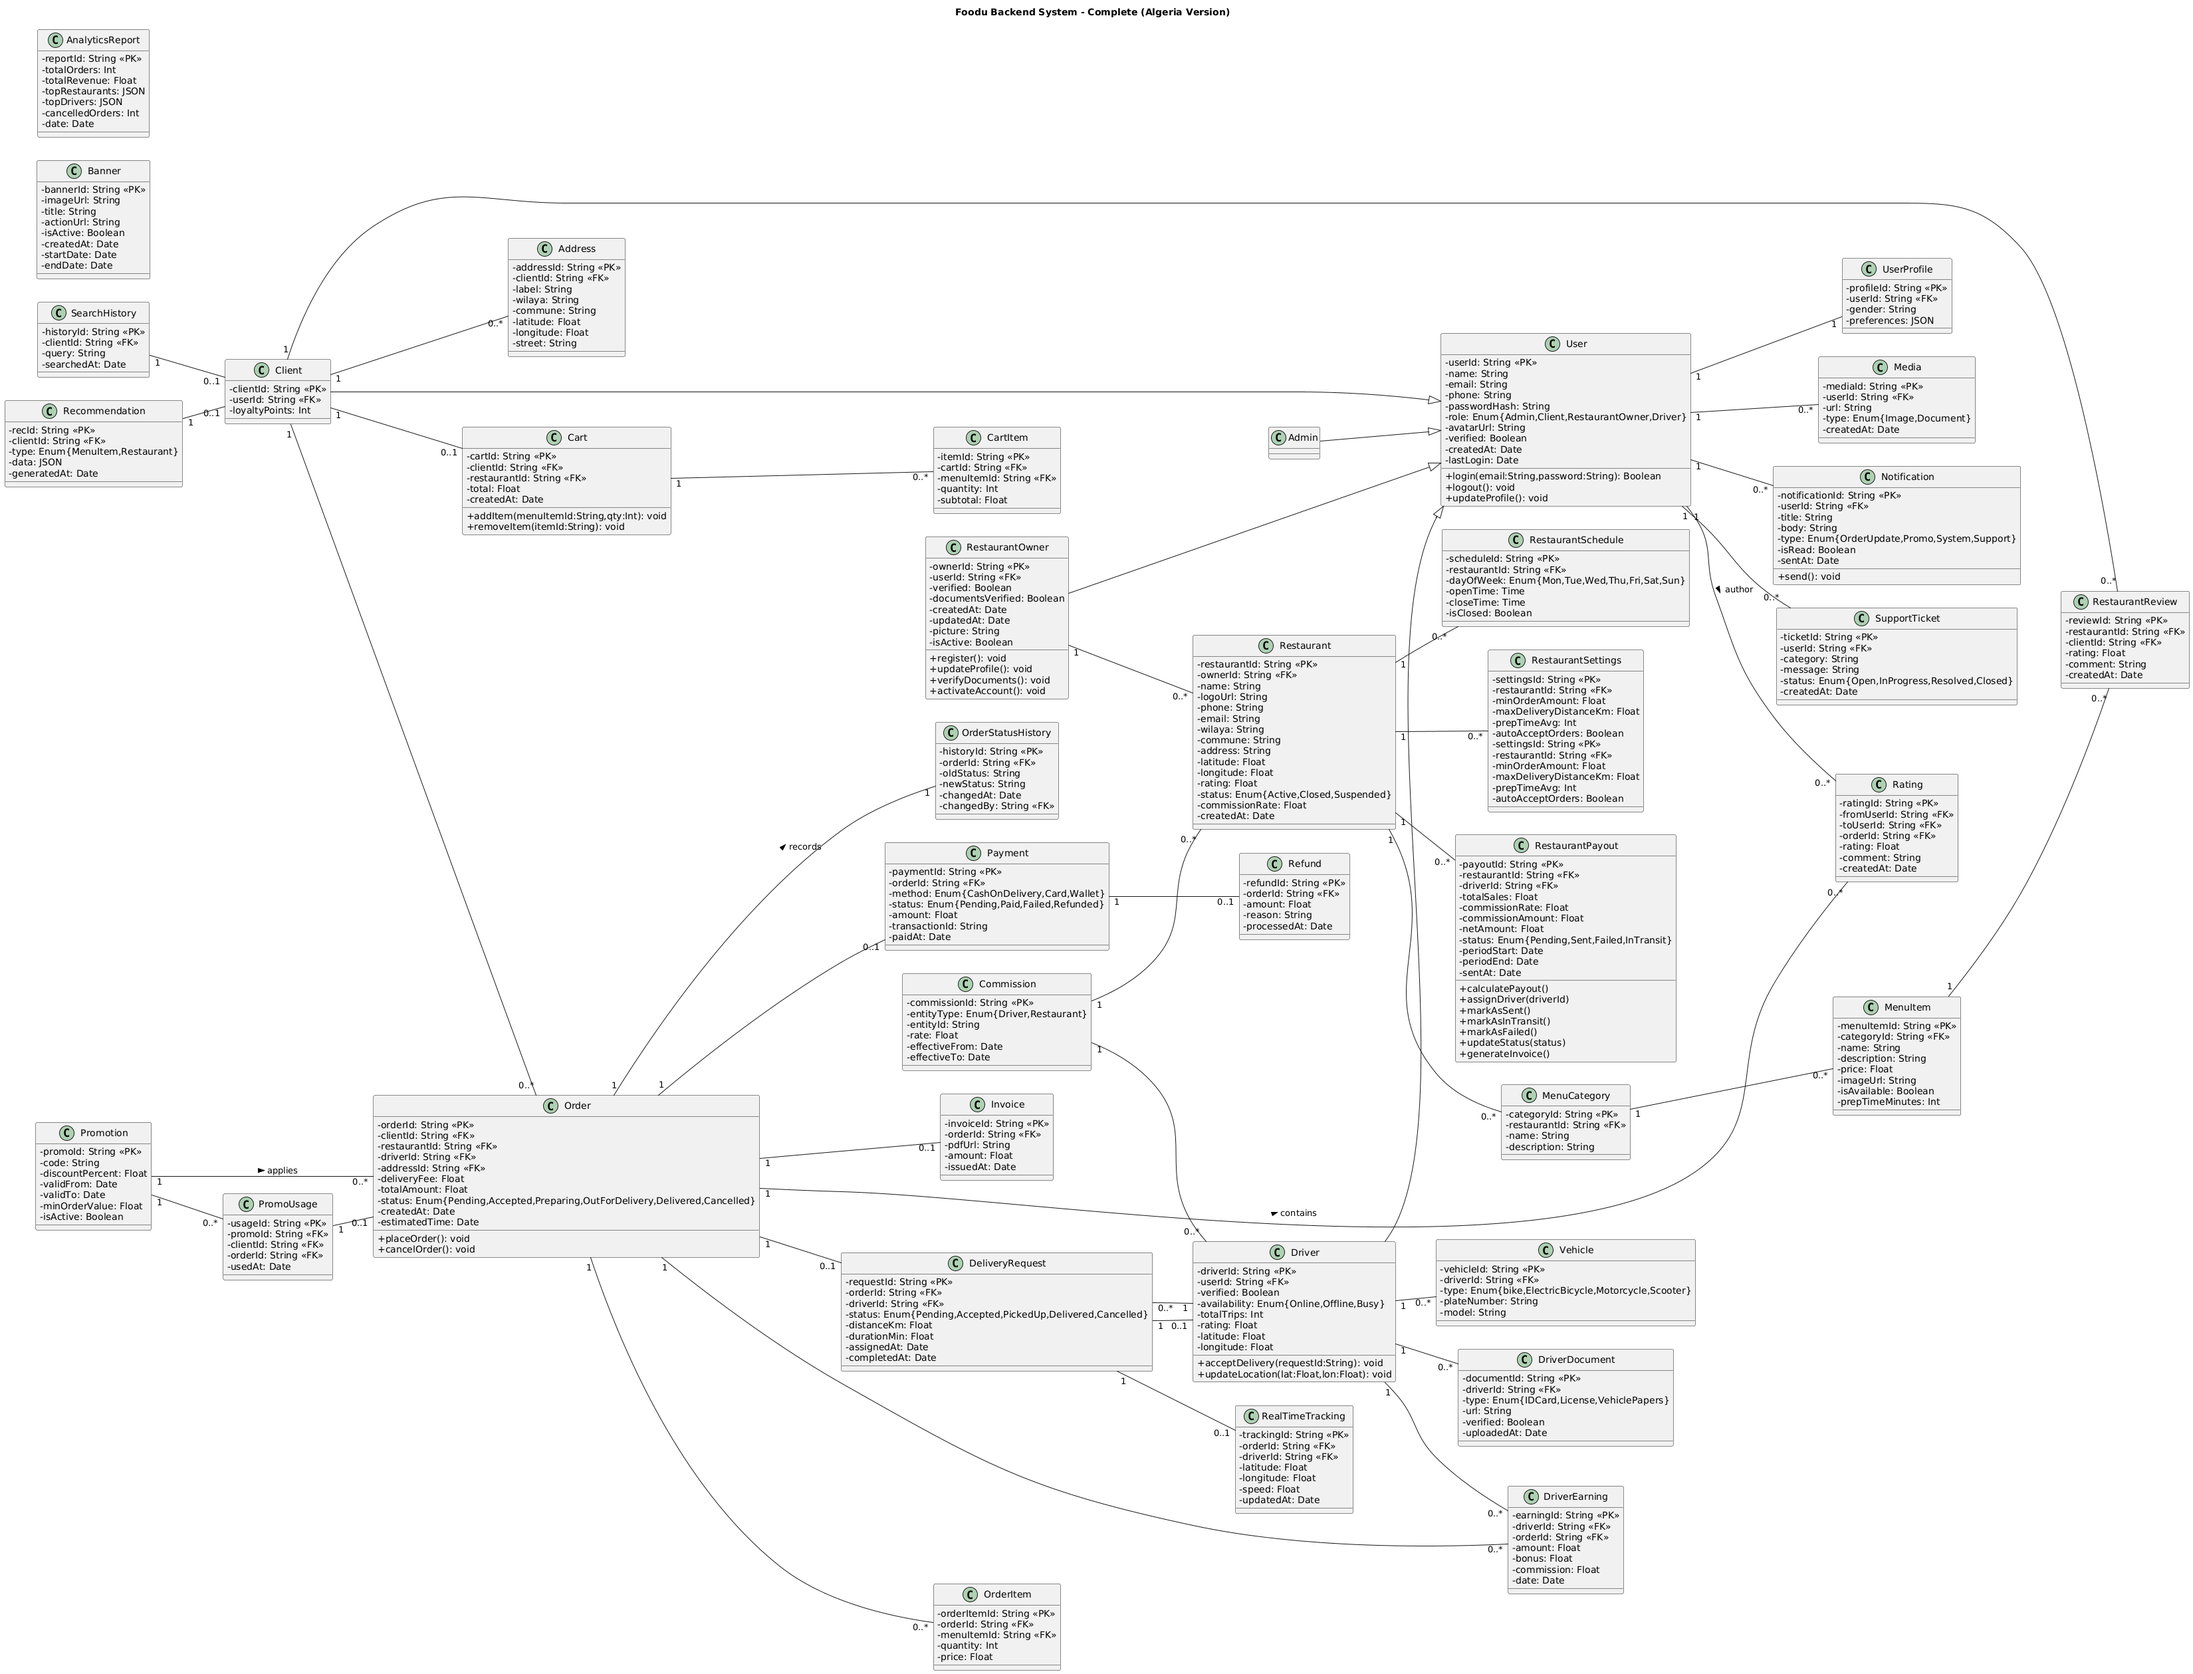
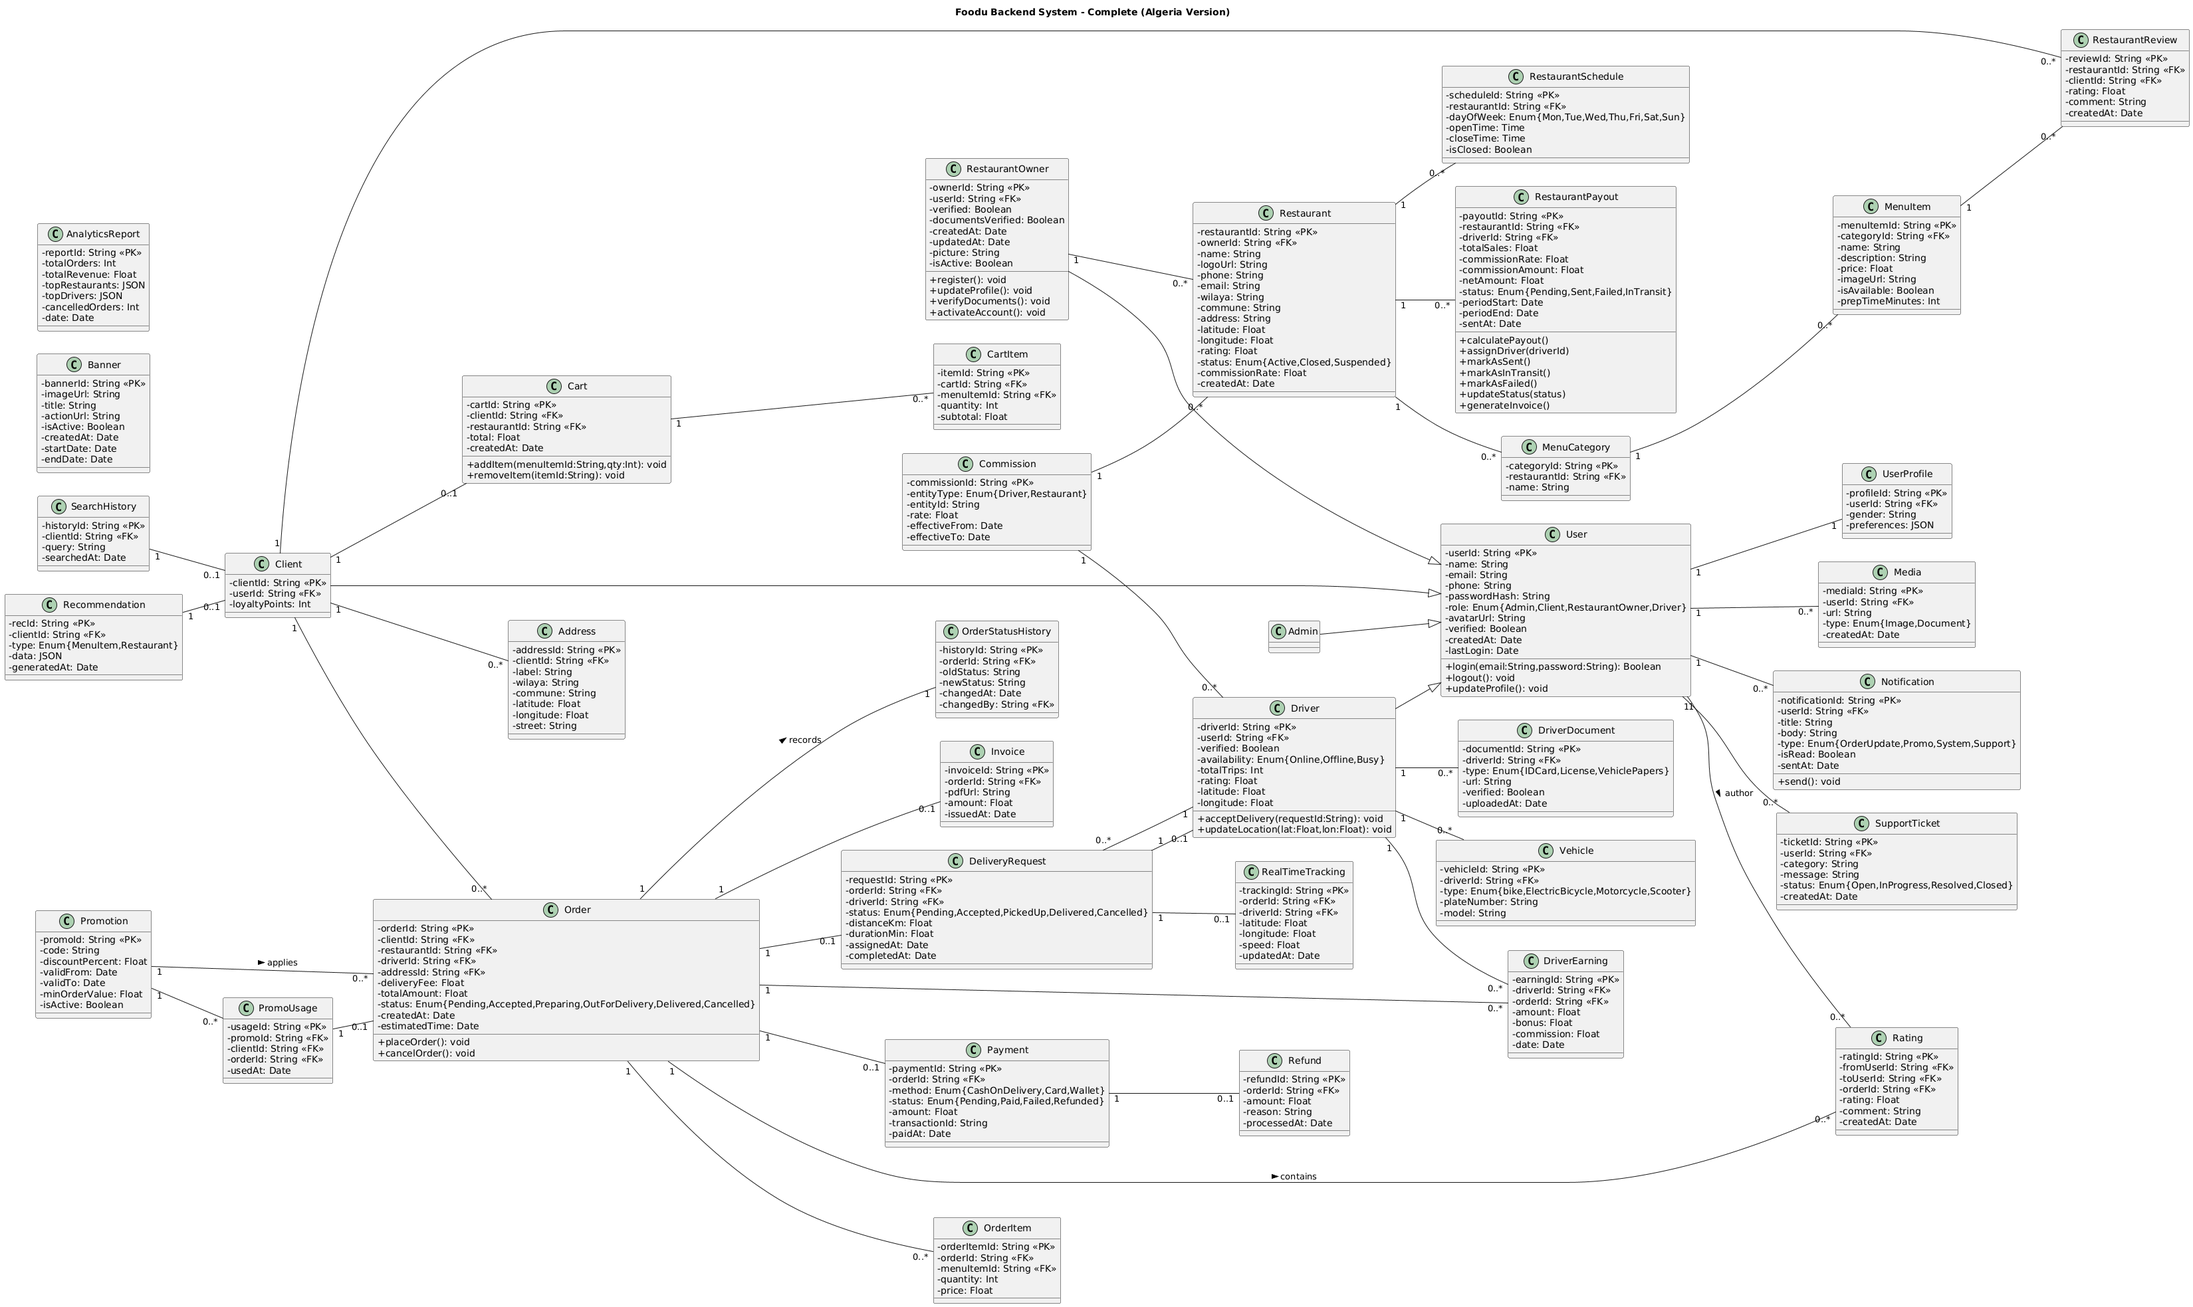
Add menu category and menu item models, controllers, routes, validators, and migrations; update Foodu diagrams

diff --git a/utils/validator/menuItem_validator.js b/utils/validator/menuItem_validator.js
@@ -1,0 +1,126 @@
+const { check } = require("express-validator");
+const db = require("../../config/db");
+const ErrorAPI = require("../../utils/ErrorAppi");
+const { runValidation } = require("../../middlewares/validatorMiddleware");
+
+exports.createMenuItemValidator = [
+  check("categoryId")
+    .notEmpty()
+    .withMessage("categoryId is required")
+    .isInt({ gt: 0 })
+    .withMessage("categoryId must be a valid integer")
+    .bail()
+    .custom(async (value) => {
+      const category = await db("menuCategory").where({ id: value }).first();
+      if (!category) throw new ErrorAPI("Category does not exist", 404);
+      return true;
+    }),
+
+  check("name")
+    .notEmpty()
+    .withMessage("name is required")
+    .isString()
+    .withMessage("name must be a string"),
+
+  check("price")
+    .notEmpty()
+    .withMessage("price is required")
+    .isFloat({ min: 0 })
+    .withMessage("price must be a positive number"),
+
+  check("description")
+    .optional()
+    .isString()
+    .withMessage("description must be a string"),
+
+  check("picture")
+    .optional()
+    .isString()
+    .withMessage("picture must be a string URL"),
+
+  check("isAvailable")
+    .optional()
+    .isBoolean()
+    .withMessage("isAvailable must be a boolean"),
+
+  check("prepTimeMinutes")
+    .optional()
+    .isInt({ min: 0 })
+    .withMessage("prepTimeMinutes must be a non-negative integer"),
+
+  runValidation,
+];
+
+exports.updateMenuItemValidator = [
+  check("id")
+    .notEmpty()
+    .withMessage("MenuItem ID is required")
+    .bail()
+    .custom(async (value) => {
+      const menuItem = await db("menuItem").where({ id: value }).first();
+      if (!menuItem) throw new ErrorAPI("MenuItem not found", 404);
+      return true;
+    }),
+
+  check("categoryId")
+    .optional()
+    .isInt({ gt: 0 })
+    .withMessage("categoryId must be a valid integer")
+    .bail()
+    .custom(async (value) => {
+      const category = await db("menuCategory").where({ id: value }).first();
+      if (!category) throw new ErrorAPI("Category does not exist", 404);
+      return true;
+    }),
+
+  check("name").optional().isString().withMessage("name must be a string"),
+
+  check("price")
+    .optional()
+    .isFloat({ min: 0 })
+    .withMessage("price must be a positive number"),
+
+  check("description")
+    .optional()
+    .isString()
+    .withMessage("description must be a string"),
+
+  check("picture")
+    .optional()
+    .isString()
+    .withMessage("picture must be a string URL"),
+
+  check("isAvailable")
+    .optional()
+    .isBoolean()
+    .withMessage("isAvailable must be a boolean"),
+
+  check("prepTimeMinutes")
+    .optional()
+    .isInt({ min: 0 })
+    .withMessage("prepTimeMinutes must be a non-negative integer"),
+
+  runValidation,
+];
+
+exports.getMenuItemByIdValidator = [
+  check("id")
+    .notEmpty()
+    .withMessage("MenuItem ID is required")
+    .isInt()
+    .withMessage("MenuItem ID must be an integer"),
+  runValidation,
+];
+
+exports.deleteMenuItemValidator = [
+  check("id")
+    .notEmpty()
+    .withMessage("MenuItem ID is required")
+    .bail()
+    .custom(async (value) => {
+      const menuItem = await db("menuItem").where({ id: value }).first();
+      if (!menuItem) throw new ErrorAPI("MenuItem not found", 404);
+      return true;
+    }),
+  runValidation,
+];

diff --git a/utils/validator/menuCategory_validator.js b/utils/validator/menuCategory_validator.js
@@ -1,0 +1,69 @@
+const { check } = require("express-validator");
+const db = require("../../config/db");
+const ErrorAPI = require("../../utils/ErrorAppi");
+const { runValidation } = require("../../middlewares/validatorMiddleware");
+
+exports.createMenuCategoryValidator = [
+  check("restaurantId")
+    .notEmpty()
+    .withMessage("restaurantId is required")
+    .isInt({ gt: 0 })
+    .withMessage("restaurantId must be a valid integer")
+    .bail()
+    .custom(async (value) => {
+      const restaurant = await db("restaurant").where({ id: value }).first();
+      if (!restaurant) throw new ErrorAPI("Restaurant does not exist", 404);
+      return true;
+    }),
+
+  check("name").notEmpty().withMessage("Category name is required").bail(),
+
+  runValidation,
+];
+
+exports.updateMenuCategoryValidator = [
+  check("id")
+    .notEmpty()
+    .withMessage("Category ID is required")
+    .bail()
+    .custom(async (value) => {
+      const category = await db("menuCategory").where({ id: value }).first();
+      if (!category) throw new ErrorAPI("Category not found", 404);
+      return true;
+    }),
+
+  check("restaurantId")
+    .optional()
+    .isInt({ gt: 0 })
+    .withMessage("restaurantId must be a valid integer")
+    .bail()
+    .custom(async (value) => {
+      const restaurant = await db("restaurant").where({ id: value }).first();
+      if (!restaurant) throw new ErrorAPI("Restaurant does not exist", 404);
+      return true;
+    }),
+
+  runValidation,
+];
+
+exports.getMenuCategoryByIdValidator = [
+  check("id")
+    .notEmpty()
+    .withMessage("Category ID is required")
+    .isInt()
+    .withMessage("Category ID must be an integer"),
+  runValidation,
+];
+
+exports.deleteMenuCategoryValidator = [
+  check("id")
+    .notEmpty()
+    .withMessage("Category ID is required")
+    .bail()
+    .custom(async (value) => {
+      const category = await db("menuCategory").where({ id: value }).first();
+      if (!category) throw new ErrorAPI("Category not found", 404);
+      return true;
+    }),
+  runValidation,
+];

diff --git a/config/migrations/20251123121730_menu_item.js b/config/migrations/20251123121730_menu_item.js
@@ -1,0 +1,32 @@
+/**
+ * @param { import("knex").Knex } knex
+ * @returns { Promise<void> }
+ */
+exports.up = function(knex) {
+  return knex.schema.createTable("menuItem", function(table) {
+    table.increments("id").primary();        
+    table.integer("categoryId").unsigned().notNullable();
+    table.string("name").notNullable();
+    table.text("description").nullable();
+    table.float("price").notNullable().defaultTo(0.0);
+    table.string("picture").nullable();
+    table.boolean("isAvailable").defaultTo(true);
+    table.integer("prepTimeMinutes").defaultTo(0);
+    table.timestamp("createdAt").defaultTo(knex.fn.now());
+    table.timestamp("updatedAt").defaultTo(knex.fn.now());
+
+    table
+      .foreign("categoryId")
+      .references("id")
+      .inTable("menuCategory")
+      .onDelete("CASCADE");
+  });
+};
+
+/**
+ * @param { import("knex").Knex } knex
+ * @returns { Promise<void> }
+ */
+exports.down = function(knex) {
+  return knex.schema.dropTableIfExists("menuItem");
+};

diff --git a/routes/menuCategory_route.js b/routes/menuCategory_route.js
@@ -1,0 +1,27 @@
+const express = require("express");
+const router = express.Router();
+const {
+  createMenuCategory,
+  updateMenuCategory,
+  deleteMenuCategory,
+  getAllMenuCategorys,
+  getMenuCategoryById,
+} = require("../controllers/menuCategory_controller");
+const {
+  createMenuCategoryValidator,
+  getMenuCategoryByIdValidator,
+  updateMenuCategoryValidator,
+  deleteMenuCategoryValidator,
+} = require("../utils/validator/menuCategory_validator");
+
+router
+  .route("/")
+  .post(createMenuCategoryValidator, createMenuCategory)
+  .get(getAllMenuCategorys);
+router
+  .route("/id/:id")
+  .get(getMenuCategoryByIdValidator, getMenuCategoryById)
+  .put(updateMenuCategoryValidator, updateMenuCategory)
+  .delete(deleteMenuCategoryValidator, deleteMenuCategory);
+
+module.exports = router;

diff --git a/config/migrations/20251123110938_menu_category.js b/config/migrations/20251123110938_menu_category.js
@@ -1,0 +1,27 @@
+/**
+ * @param { import("knex").Knex } knex
+ * @returns { Promise<void> }
+ */
+exports.up = function (knex) {
+  return knex.schema.createTable("menuCategory", function (table) {
+    table.increments("id").primary();
+    table.integer("restaurantId").unsigned().notNullable();
+    table.string("name").notNullable();
+    table.timestamp("createdAt").defaultTo(knex.fn.now());
+    table.timestamp("updatedAt").defaultTo(knex.fn.now());
+
+    table
+      .foreign("restaurantId")
+      .references("id")
+      .inTable("restaurant")
+      .onDelete("CASCADE");
+  });
+};
+
+/**
+ * @param { import("knex").Knex } knex
+ * @returns { Promise<void> }
+ */
+exports.down = function (knex) {
+  return knex.schema.dropTableIfExists("menuCategory");
+};

diff --git a/routes/menuItem_route.js b/routes/menuItem_route.js
@@ -1,0 +1,27 @@
+const express = require("express");
+const router = express.Router();
+const {
+  createMenuItem,
+  getMenuItemById,
+  getAllMenuItems,
+  updateMenuItem,
+  deleteMenuItem,
+} = require("../controllers/menuItem_controller");
+const {
+  createMenuItemValidator,
+  updateMenuItemValidator,
+  getMenuItemByIdValidator,
+  deleteMenuItemValidator,
+} = require("../utils/validator/menuItem_validator");
+
+router
+  .route("/")
+  .post(createMenuItemValidator, createMenuItem)
+  .get(getAllMenuItems);
+router
+  .route("/id/:id")
+  .get(getMenuItemByIdValidator, getMenuItemById)
+  .put(updateMenuItemValidator, updateMenuItem)
+  .delete(deleteMenuItemValidator, deleteMenuItem);
+
+module.exports = router;

diff --git a/controllers/menuCategory_controller.js b/controllers/menuCategory_controller.js
@@ -1,0 +1,22 @@
+const menuCategoryModel = require("../models/menuCategory_model");
+const {
+  createOne,
+  getOne,
+  getAll,
+  updateOne,
+  deleteOne,
+} = require("./factory_handler");
+
+const createMenuCategory = createOne(menuCategoryModel, "MenuCategory");
+const deleteMenuCategory = deleteOne(menuCategoryModel, "MenuCategory");
+const updateMenuCategory = updateOne(menuCategoryModel, "MenuCategory");
+const getMenuCategoryById = getOne(menuCategoryModel, "MenuCategory");
+const getAllMenuCategorys = getAll(menuCategoryModel, "MenuCategory");
+
+module.exports = {
+  createMenuCategory,
+  deleteMenuCategory,
+  updateMenuCategory,
+  getMenuCategoryById,
+  getAllMenuCategorys,
+};

diff --git a/controllers/menuItem_controller.js b/controllers/menuItem_controller.js
@@ -1,0 +1,22 @@
+const menuItemModel = require("../models/menuItem_model");
+const {
+  createOne,
+  getOne,
+  getAll,
+  updateOne,
+  deleteOne,
+} = require("./factory_handler");
+
+const createMenuItem = createOne(menuItemModel, "MenuItem");
+const deleteMenuItem = deleteOne(menuItemModel, "MenuItem");
+const updateMenuItem = updateOne(menuItemModel, "MenuItem");
+const getMenuItemById = getOne(menuItemModel, "MenuItem");
+const getAllMenuItems = getAll(menuItemModel, "MenuItem");
+
+module.exports = {
+  createMenuItem,
+  deleteMenuItem,
+  updateMenuItem,
+  getMenuItemById,
+  getAllMenuItems,
+};

diff --git a/routes/mount_router.js b/routes/mount_router.js
@@ -11,6 +11,8 @@ const mountRoutes = (app) => {
   app.use("/api/v1/restaurant", require("./restaurant_route"));
   app.use("/api/v1/restaurantSchedule", require("./restaurantSchedule_route"));
   app.use("/api/v1/restaurantPayout", require("./restaurantPayout_route"));
+  app.use("/api/v1/menuCategory", require("./menuCategory_route"));
+  app.use("/api/v1/menuItem", require("./menuItem_route"));
 };
 
 module.exports = mountRoutes;

diff --git a/models/menuCategory_model.js b/models/menuCategory_model.js
@@ -1,0 +1,9 @@
+const BaseModel = require("./base_model");
+
+class menuCategoryModel extends BaseModel {
+  constructor() {
+    super("menuCategory");
+  }
+}
+
+module.exports = new menuCategoryModel();

diff --git a/models/menuItem_model.js b/models/menuItem_model.js
@@ -1,0 +1,9 @@
+const BaseModel = require("./base_model");
+
+class menuItemModel extends BaseModel {
+  constructor() {
+    super("menuItem");
+  }
+}
+
+module.exports = new menuItemModel();
